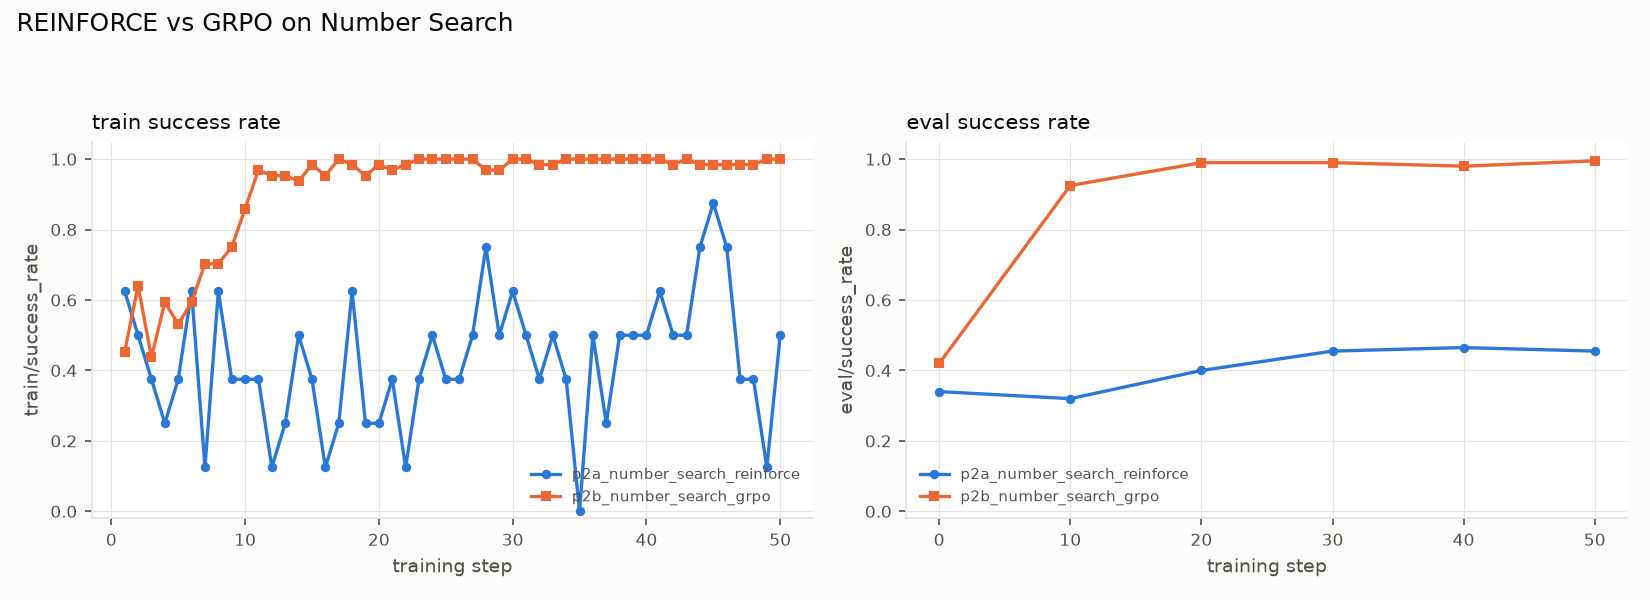
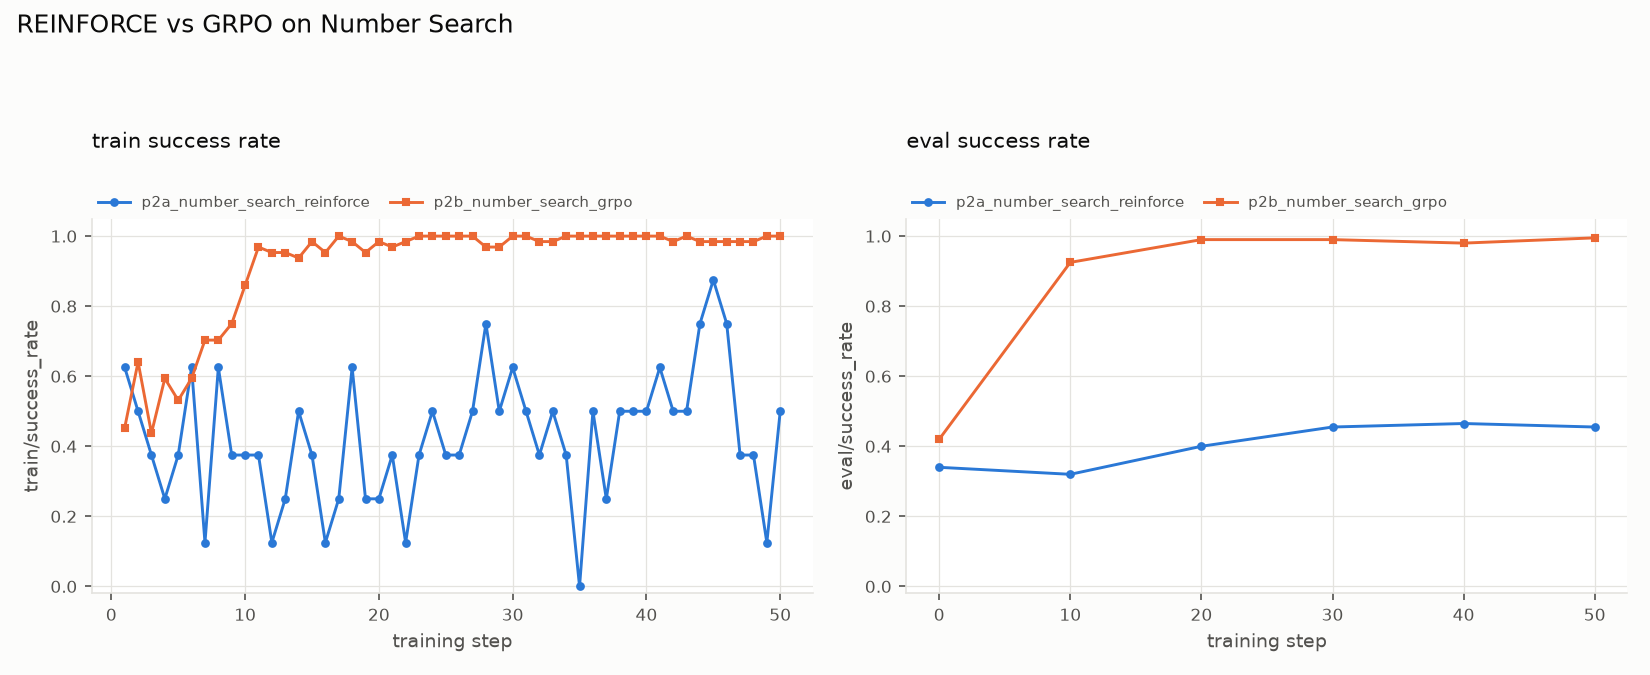
Fix plot layout: legend/title spacing and misleading line gaps
- Move legends out of the axes into a reserved band above each panel, so
  they no longer cover baseline data points; pad titles clear of the band
- Use two-column legends so the band is at most two rows tall
- Break per-step train curves at steps with no record instead of drawing a
  line across skipped steps, which implied data that does not exist
- Drop reward curves that duplicate another series exactly (G=1 makes
  train/pass@1 identical to train/success_rate)
- Pad the degenerate-group axis so a flat 0.0 line is not hidden by the
  bottom spine

diff --git a/scripts/plot_report.py b/scripts/plot_report.py
@@ -61,6 +61,20 @@ def series(steps: dict[int, dict], key: str) -> tuple[list, list]:
     return xs, [steps[s][key] for s in xs]
 
 
+def series_with_gaps(steps: dict[int, dict], key: str) -> tuple[list, list]:
+    """Series for a per-step metric, with NaN where a step has no record.
+
+    A train metric is expected on every training step, so a missing step is
+    real information (the batch was skipped, or the update did not run) and
+    the line must break there rather than bridge across it. Eval metrics are
+    sampled only every `eval_every` steps and are plotted as sparse points.
+    """
+    if not key.startswith("train/"):
+        return series(steps, key)
+    xs = sorted(steps)
+    return xs, [steps[s].get(key, float("nan")) for s in xs]
+
+
 def all_keys(steps: dict[int, dict]) -> set[str]:
     keys: set[str] = set()
     for record in steps.values():
@@ -69,7 +83,9 @@ def all_keys(steps: dict[int, dict]) -> set[str]:
 
 
 def _style(ax, title: str, ylabel: str, ylim: tuple[float, float] | None = None) -> None:
-    ax.set_title(title, color=INK, fontsize=10, loc="left")
+    # The title sits above the axes rather than inside them, leaving the
+    # reserved band free for the legend placed by _legend().
+    ax.set_title(title, color=INK, fontsize=10, loc="left", pad=34)
     ax.set_xlabel("training step", color=INK_SECONDARY, fontsize=9)
     ax.set_ylabel(ylabel, color=INK_SECONDARY, fontsize=9)
     ax.tick_params(colors=INK_SECONDARY, labelsize=8)
@@ -83,33 +99,64 @@ def _style(ax, title: str, ylabel: str, ylim: tuple[float, float] | None = None)
         ax.set_ylim(*ylim)
 
 
+def _legend(ax, ncol: int = 2) -> None:
+    """Legend in its own band above the axes, never over data or the title.
+
+    Two columns by default so the band is at most two rows tall; the title
+    is padded above the whole band. Placing the legend outside the axes also
+    keeps it from hiding points at the start of a curve, which is where the
+    interesting baseline values sit.
+    """
+    ax.legend(
+        fontsize=7, frameon=False, labelcolor=INK_SECONDARY,
+        loc="lower left", bbox_to_anchor=(0, 1.005), ncol=ncol,
+        borderaxespad=0, handlelength=2.2, columnspacing=1.4,
+    )
+
+
 def _draw(ax, steps: dict[int, dict], keys: list[str], style_offset: int = 0) -> None:
     for i, key in enumerate(keys):
-        xs, ys = series(steps, key)
+        xs, ys = series_with_gaps(steps, key)
         if not xs:
             continue
         color, ls, marker = SERIES_STYLE[(i + style_offset) % len(SERIES_STYLE)]
+        # Markers show where records actually exist; NaN gaps break the line
+        # instead of bridging across skipped steps.
         ax.plot(
-            xs, ys, color=color, linestyle=ls, linewidth=1.6,
-            marker=marker, markersize=3.5, label=key,
+            xs, ys, color=color, linestyle=ls, linewidth=1.4,
+            marker=marker, markersize=3.2, label=key,
         )
 
 
 def reward_keys(steps: dict[int, dict]) -> list[str]:
-    """Exact pass@ keys, so training and evaluation k values stay distinct."""
-    return [
+    """Exact pass@ keys, so training and evaluation k values stay distinct.
+
+    A series identical to an earlier one is dropped: with G=1, train success
+    rate *is* train/pass@1, so plotting both would hide one line under the
+    other and add a redundant legend entry.
+    """
+    keys = [
         "train/success_rate",
         "eval/success_rate",
         *sorted(k for k in all_keys(steps) if k.startswith("train/pass@")),
         *sorted(k for k in all_keys(steps) if k.startswith("eval/pass@")),
     ]
+    kept: list[str] = []
+    for key in keys:
+        _, ys = series(steps, key)
+        if not ys:
+            continue
+        if any(ys == series(steps, other)[1] for other in kept):
+            continue
+        kept.append(key)
+    return kept
 
 
 def plot_run(run_name: str, out_dir: Path = Path("report_plots")) -> None:
     steps = load_run(f"runs/{run_name}.jsonl")
     out_dir.mkdir(exist_ok=True)
 
-    fig, axes = plt.subplots(3, 2, figsize=(11, 11))
+    fig, axes = plt.subplots(3, 2, figsize=(11, 12))
     fig.patch.set_facecolor(SURFACE)
     fig.suptitle(
         f"{run_name} — {len(steps)} logged steps ({min(steps)}–{max(steps)})",
@@ -120,7 +167,7 @@ def plot_run(run_name: str, out_dir: Path = Path("report_plots")) -> None:
     ax = axes[0, 0]
     _draw(ax, steps, reward_keys(steps))
     _style(ax, "reward quality", "success / pass@k", (-0.02, 1.05))
-    ax.legend(fontsize=7, frameon=False, labelcolor=INK_SECONDARY)
+    _legend(ax)
 
     # ---- optimization -----------------------------------------------------
     ax = axes[0, 1]
@@ -136,12 +183,14 @@ def plot_run(run_name: str, out_dir: Path = Path("report_plots")) -> None:
     ])
     ax.axhline(1.0, color=INK_SECONDARY, linewidth=0.8, linestyle=":", label="1.0 (on-policy)")
     _style(ax, "policy drift", "importance weight")
-    ax.legend(fontsize=7, frameon=False, labelcolor=INK_SECONDARY)
+    _legend(ax)
 
     # ---- data health: degenerate groups -----------------------------------
     ax = axes[1, 1]
     _draw(ax, steps, ["train/frac_degenerate_groups"])
-    _style(ax, "data health: degenerate groups", "fraction of groups", (-0.02, 1.05))
+    # A run that never sees a degenerate group sits at 0.0, exactly on the
+    # lower spine; pad below so the line and its markers stay visible.
+    _style(ax, "data health: degenerate groups", "fraction of groups", (-0.05, 1.05))
 
     # ---- data health: entropy (own panel, never a second y-axis) ----------
     ax = axes[2, 0]
@@ -152,7 +201,7 @@ def plot_run(run_name: str, out_dir: Path = Path("report_plots")) -> None:
     ax = axes[2, 1]
     _draw(ax, steps, ["train/step_time_s", "train/update_time_s", "train/rollout_time_s"])
     _style(ax, "timing", "seconds")
-    ax.legend(fontsize=7, frameon=False, labelcolor=INK_SECONDARY)
+    _legend(ax)
 
     fig.tight_layout(rect=(0, 0, 1, 0.97))
     path = out_dir / f"{run_name}_diagnostics.png"
@@ -168,19 +217,19 @@ def plot_compare(run_names: list[str], out_dir: Path = Path("report_plots")) -> 
         ("train/success_rate", "train success rate"),
         ("eval/success_rate", "eval success rate"),
     ]
-    fig, axes = plt.subplots(1, len(panels), figsize=(11, 4))
+    fig, axes = plt.subplots(1, len(panels), figsize=(11, 4.5))
     fig.patch.set_facecolor(SURFACE)
     for ax, (key, title) in zip(axes, panels):
         for i, (name, steps) in enumerate(runs.items()):
-            xs, ys = series(steps, key)
+            xs, ys = series_with_gaps(steps, key)
             color, _, marker = SERIES_STYLE[i % len(SERIES_STYLE)]
-            ax.plot(xs, ys, color=color, linewidth=1.6, marker=marker,
-                    markersize=3.5, label=name)
+            ax.plot(xs, ys, color=color, linewidth=1.4, marker=marker,
+                    markersize=3.2, label=name)
         _style(ax, title, key, (-0.02, 1.05))
-        ax.legend(fontsize=7, frameon=False, labelcolor=INK_SECONDARY)
+        _legend(ax)
     fig.suptitle("REINFORCE vs GRPO on Number Search", color=INK, fontsize=12,
                  x=0.01, ha="left")
-    fig.tight_layout(rect=(0, 0, 1, 0.93))
+    fig.tight_layout(rect=(0, 0, 1, 0.91))
     path = out_dir / "compare_reinforce_vs_grpo.png"
     fig.savefig(path, dpi=150, facecolor=SURFACE)
     plt.close(fig)
